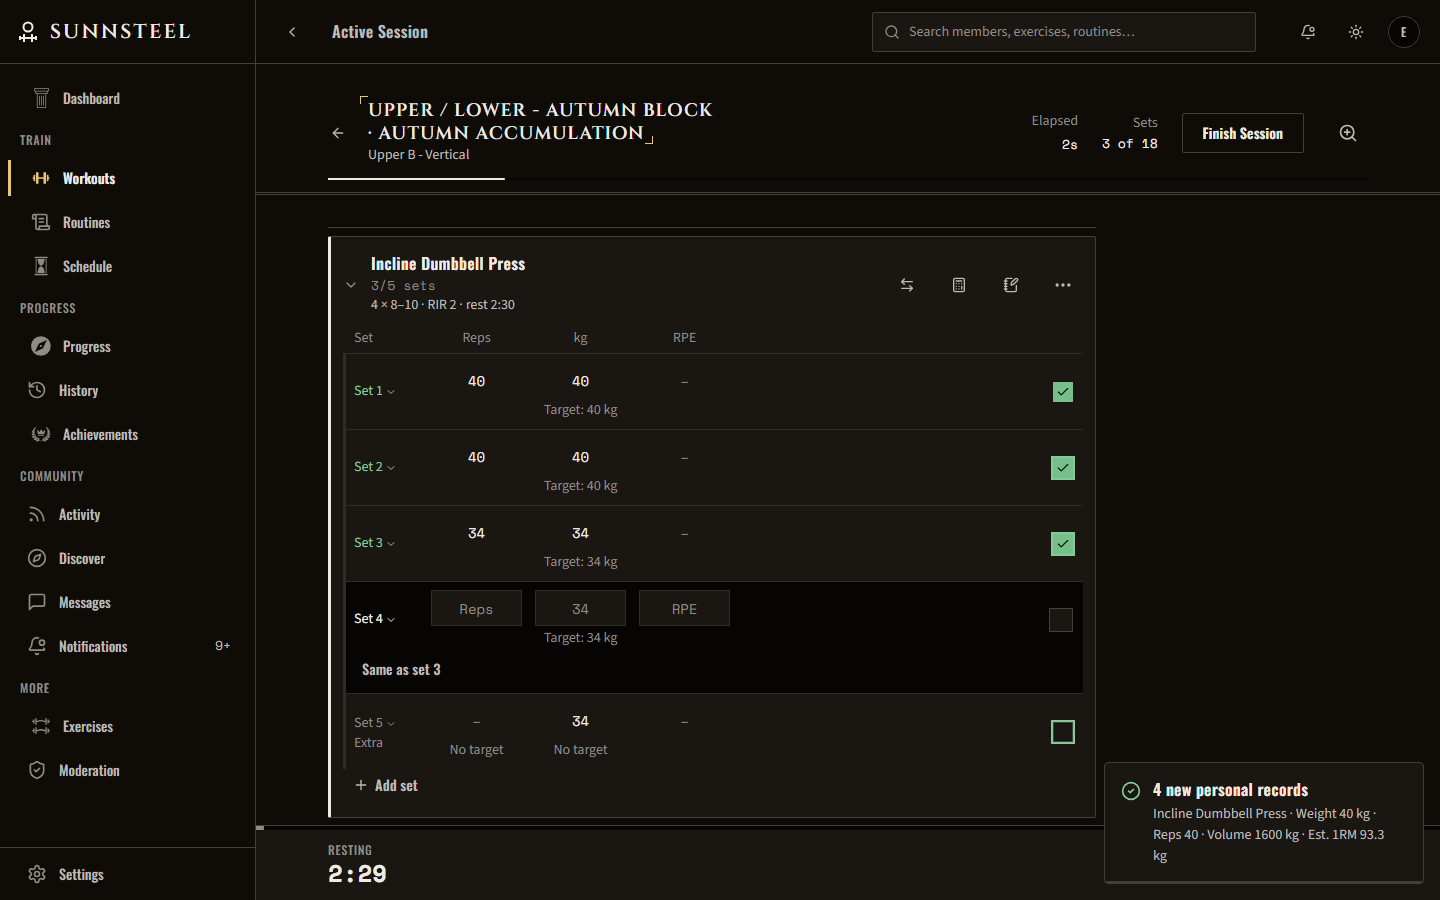
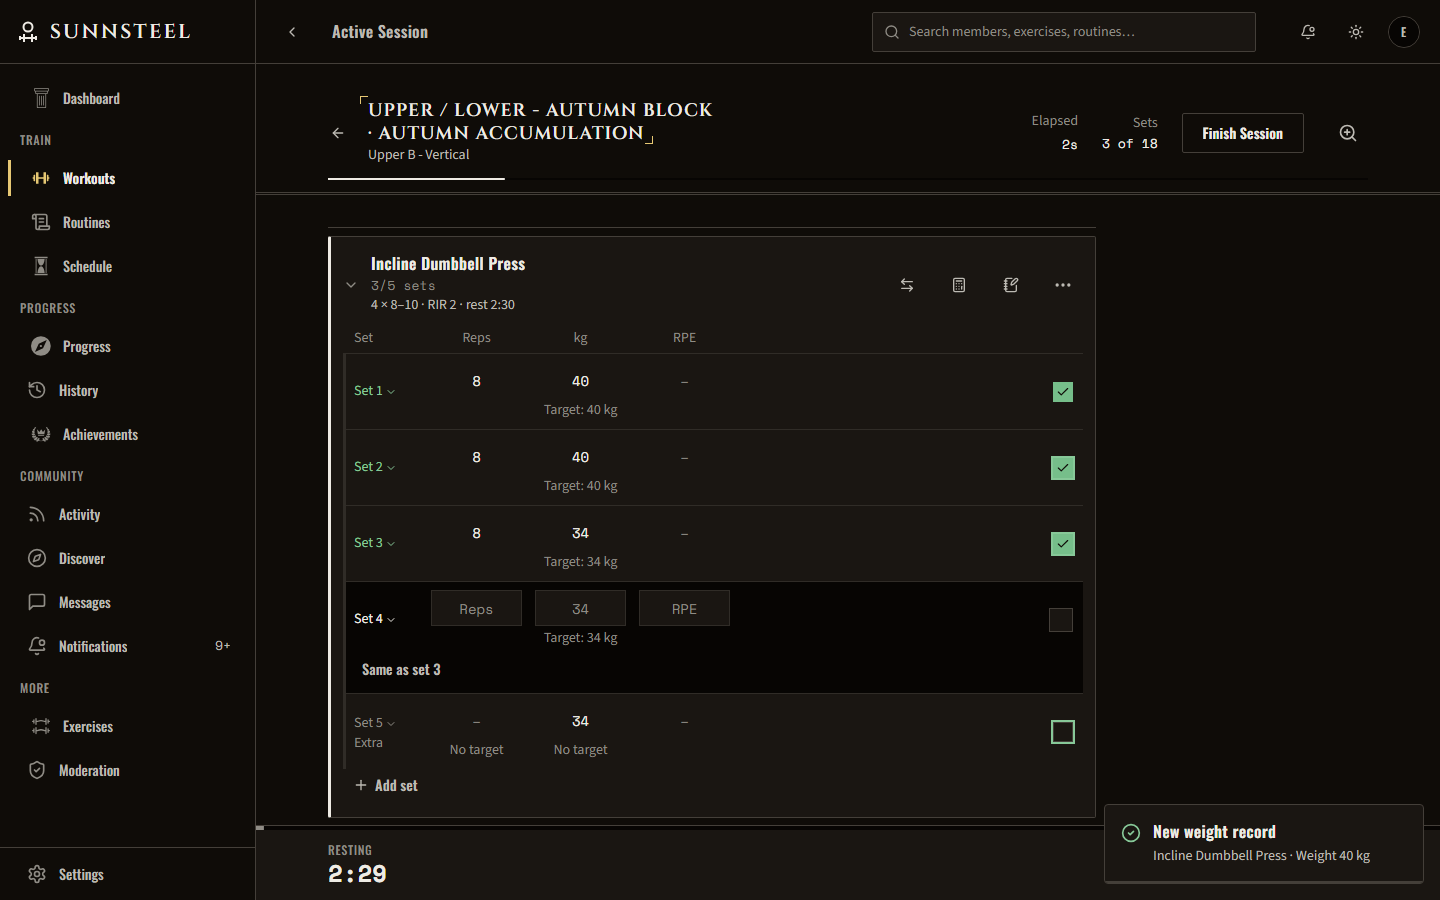
fix(portfolio): log reps from the prescription, never from a load caption
A set's caption now reads "Target: 40 kg", and the live-session setup typed
its first number as the reps, so the frames showed 40 reps at 40 kg and a
reps record. Reps come from a caption only when it names reps, else from the
prescription line's low end. Recaptures the three live-session frames.

Changed region(s): [[0.7812, 0.8711, 0.9688, 0.9644], [0.3125, 0.4978, 0.3438, 0.5289], [0.3125, 0.4044, 0.3438, 0.4356]]

diff --git a/e2e/portfolio-targets.ts b/e2e/portfolio-targets.ts
@@ -235,12 +235,19 @@ async function startScratchSession(
 				const line = row
 					.locator('xpath=ancestor::*[.//h3][1]')
 					.getByText(/^\d+ × \d+/)
-				const target = (await caption.count())
+				// The caption may name a load ("Target: 40 kg") rather than reps,
+				// and its number must never be typed as reps: only a caption that
+				// says "reps" counts, else the prescription line's low end.
+				const captionText = (await caption.count())
 					? await caption.first().innerText()
-					: (((await line.count())
-							? (await line.first().innerText()).match(/× (\d+)/)?.[1]
-							: '') ?? '')
-				await reps.fill(target.match(/\d+/)?.[0] ?? '8')
+					: ''
+				const lineText = (await line.count())
+					? await line.first().innerText()
+					: ''
+				const target =
+					captionText.match(/(\d+)(?:[–-]\d+)?\s*reps/i)?.[1] ??
+					lineText.match(/× (\d+)/)?.[1]
+				await reps.fill(target ?? '8')
 			}
 			const weight = row.getByLabel(/: weight in /)
 			// LIVE-22: a pre-filled target is a suggestion shown as the
